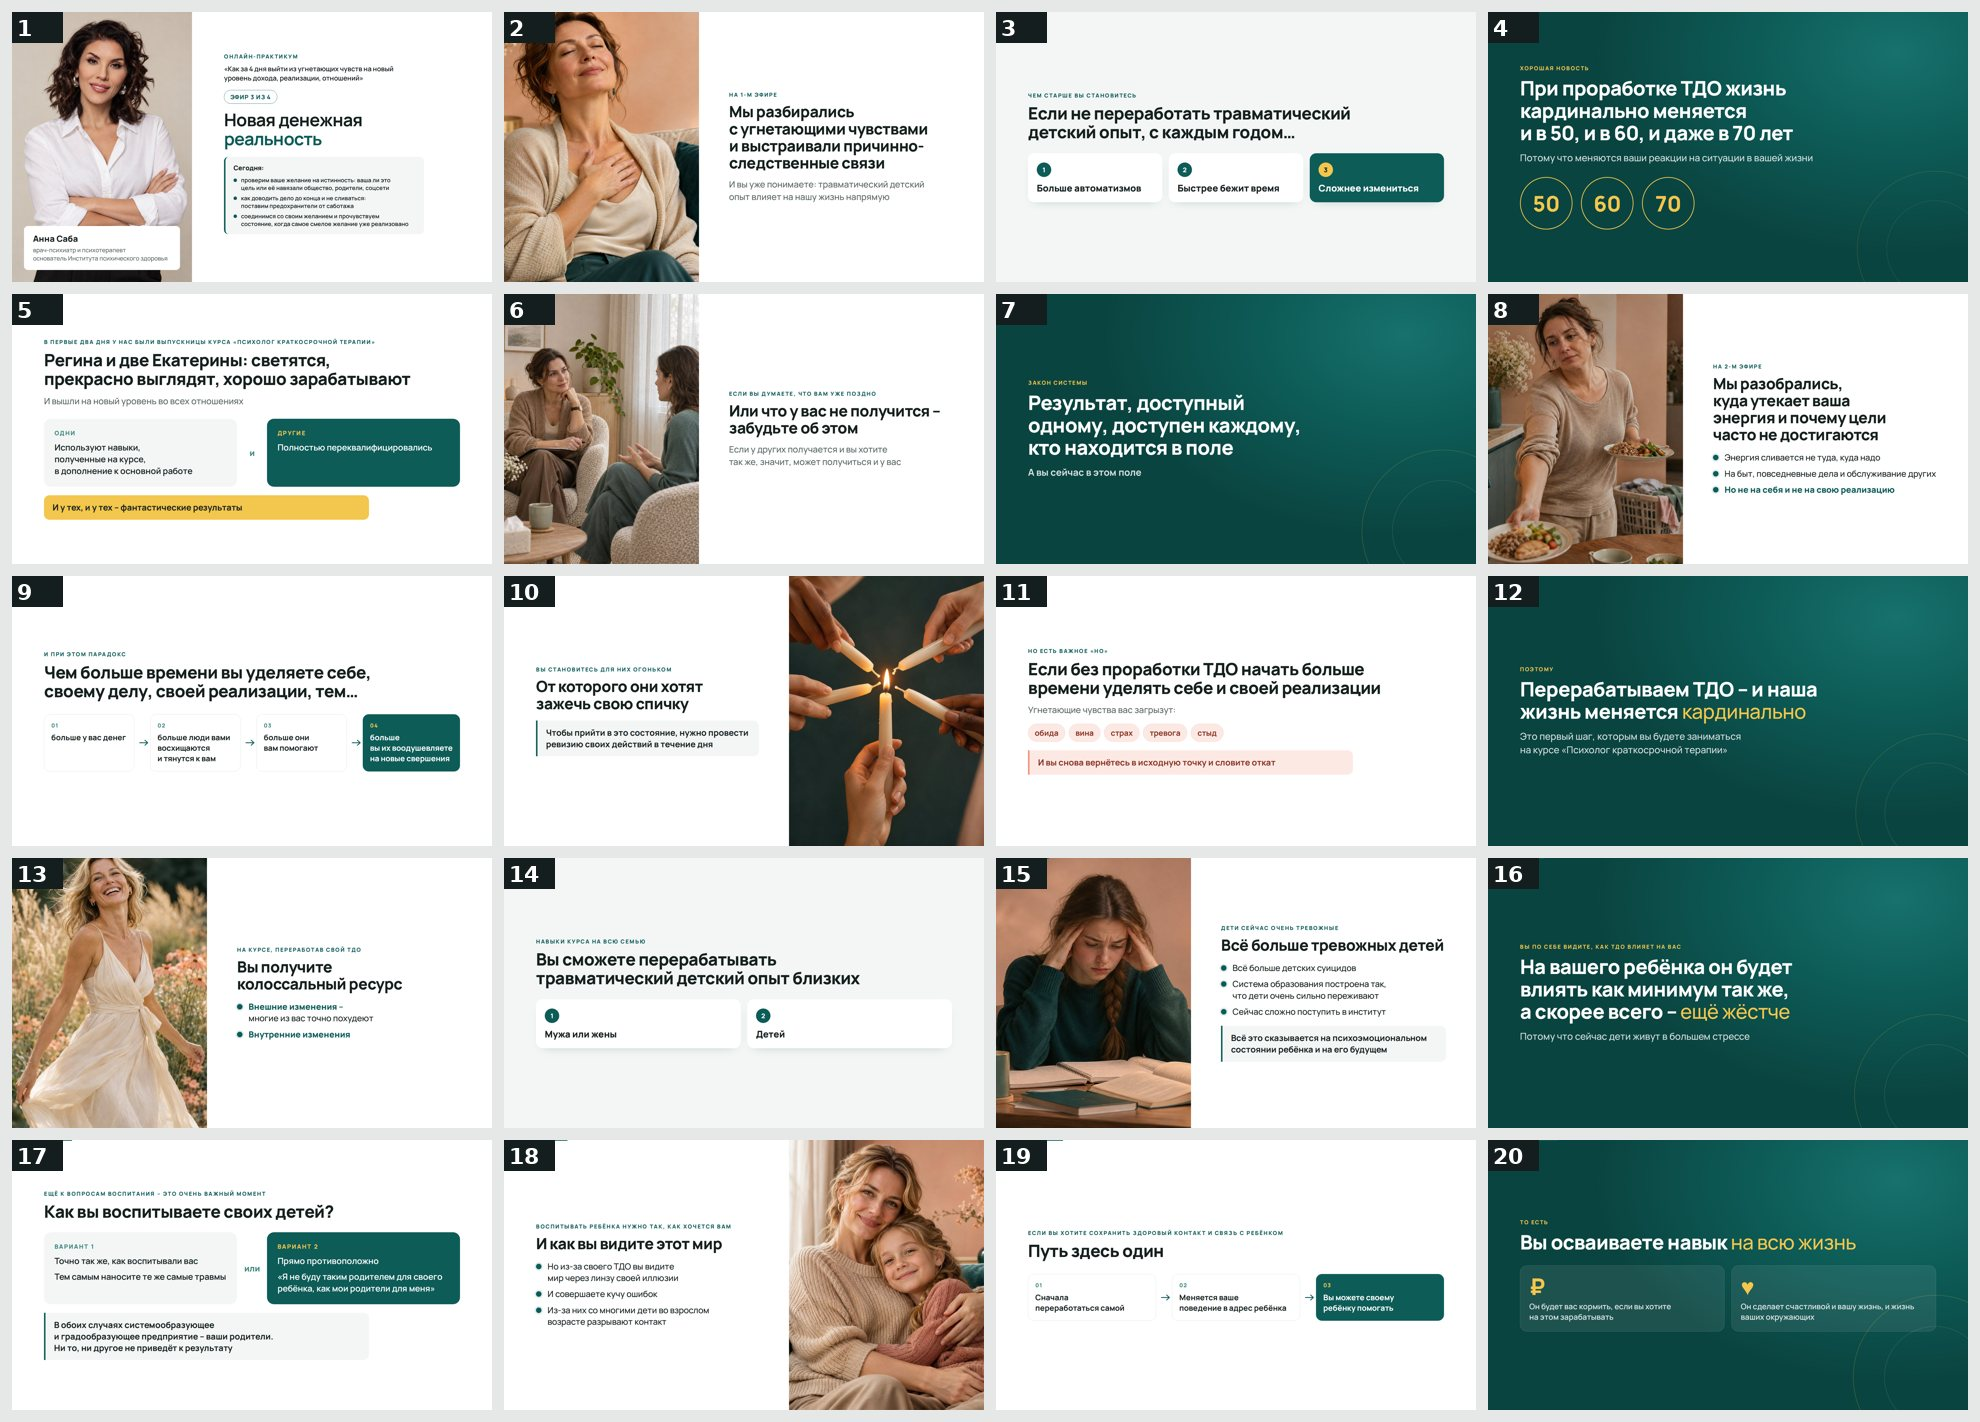
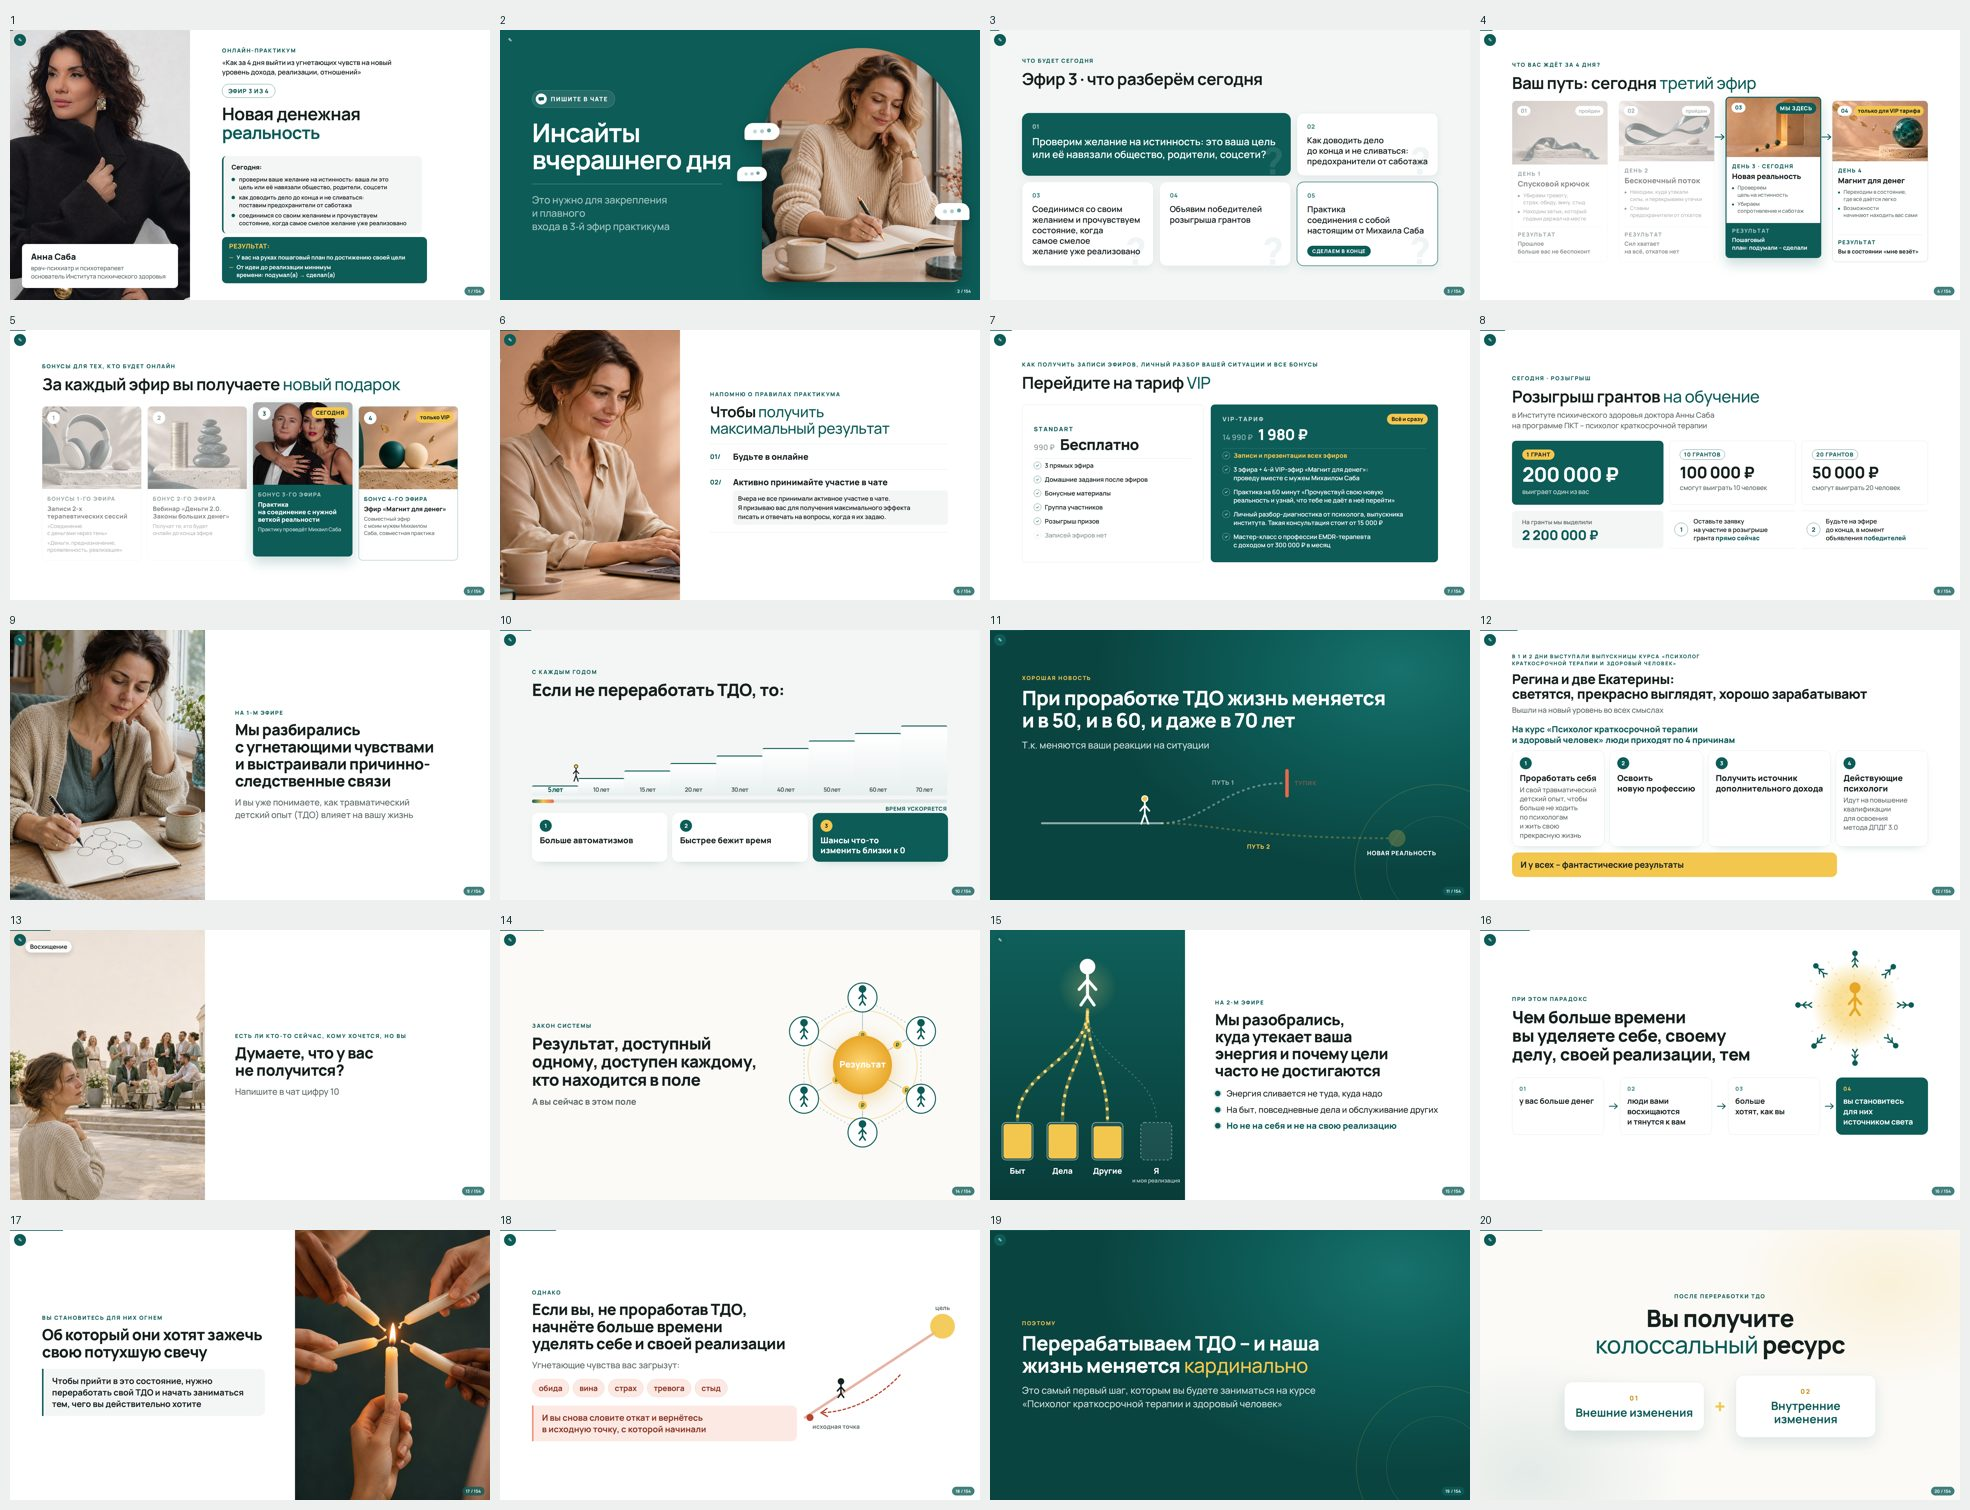
praktikum-efir-3: листы 154 слайдов

diff --git a/praktikum-efir-3/listy/index.html b/praktikum-efir-3/listy/index.html
@@ -1,1 +1,1 @@
-<!doctype html><html lang="ru"><head><meta charset="utf-8"><meta name="viewport" content="width=device-width,initial-scale=1"><meta name="robots" content="noindex"><title>Эфир 3 – листы слайдов</title><style>body{margin:0;background:#eef0f0;font-family:system-ui,sans-serif;color:#13302e}h1{font-size:22px;margin:20px 16px}h2{font-size:16px;margin:24px 16px 8px}img{display:block;width:calc(100% - 32px);max-width:1600px;margin:0 16px;border-radius:8px}</style></head><body><h1>Эфир 3 «Новая денежная реальность» – все 136 слайдов</h1><h2>Слайды 1–20</h2><img src="list-1.jpg" alt="Слайды 1–20" loading="lazy"><h2>Слайды 21–40</h2><img src="list-2.jpg" alt="Слайды 21–40" loading="lazy"><h2>Слайды 41–60</h2><img src="list-3.jpg" alt="Слайды 41–60" loading="lazy"><h2>Слайды 61–80</h2><img src="list-4.jpg" alt="Слайды 61–80" loading="lazy"><h2>Слайды 81–100</h2><img src="list-5.jpg" alt="Слайды 81–100" loading="lazy"><h2>Слайды 101–120</h2><img src="list-6.jpg" alt="Слайды 101–120" loading="lazy"><h2>Слайды 121–136</h2><img src="list-7.jpg" alt="Слайды 121–136" loading="lazy"></body></html>
+<!doctype html><html lang="ru"><head><meta charset="utf-8"><meta name="viewport" content="width=device-width,initial-scale=1"><meta name="robots" content="noindex"><title>Эфир 3 – листы слайдов</title><style>body{margin:0;background:#eef0f0;font-family:system-ui,sans-serif;color:#13302e}h1{font-size:22px;margin:20px 16px}h2{font-size:16px;margin:24px 16px 8px}img{display:block;width:calc(100% - 32px);max-width:1600px;margin:0 16px;border-radius:8px}</style></head><body><h1>Эфир 3 «Новая денежная реальность» – все 154 слайдов</h1><h2>Слайды 1–20</h2><img src="list-1.jpg" alt="Слайды 1–20" loading="lazy"><h2>Слайды 21–40</h2><img src="list-2.jpg" alt="Слайды 21–40" loading="lazy"><h2>Слайды 41–60</h2><img src="list-3.jpg" alt="Слайды 41–60" loading="lazy"><h2>Слайды 61–80</h2><img src="list-4.jpg" alt="Слайды 61–80" loading="lazy"><h2>Слайды 81–100</h2><img src="list-5.jpg" alt="Слайды 81–100" loading="lazy"><h2>Слайды 101–120</h2><img src="list-6.jpg" alt="Слайды 101–120" loading="lazy"><h2>Слайды 121–140</h2><img src="list-7.jpg" alt="Слайды 121–140" loading="lazy"><h2>Слайды 141–154</h2><img src="list-8.jpg" alt="Слайды 141–154" loading="lazy"></body></html>
